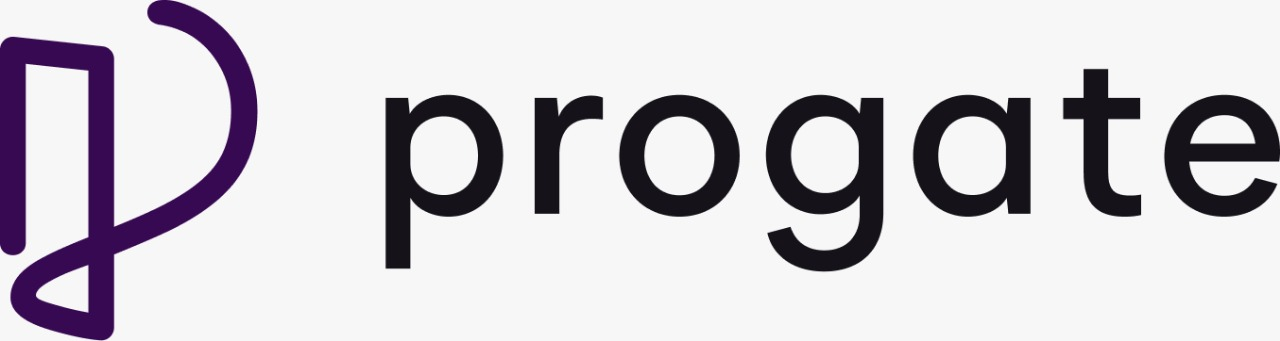
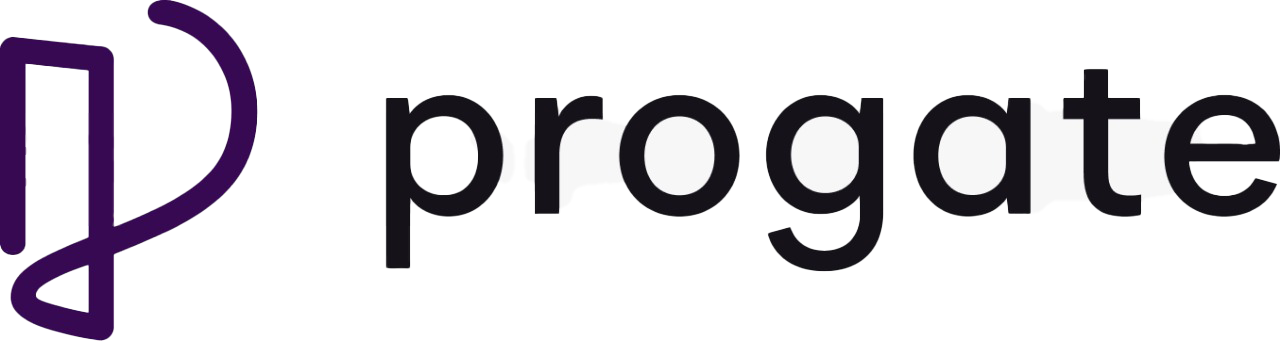
Add Progate

diff --git a/_layouts/default.html b/_layouts/default.html
@@ -439,7 +439,7 @@
                         <a href="https://www.gitkraken.com/"><img class="logo" src="./assets/img/thanks_to/gitkraken.png" alt="GitKraken"/></a>
                         <a href="https://scaler.com/"><img class="logo" src="./assets/img/thanks_to/unnamed.png" alt="Scaler Academy By InterviewBit"/></a>
                         <a href="https://mlh.io/"><img class="logo" src="./assets/img/thanks_to/mlh-logo-white.svg" alt="Major League Hacking"/></a>
-                        <a href="http://bit.ly/progateaccessforhackon "><img class="logo" src="./assets/img/thanks_to/prograte.svg" alt="Major League Hacking"/></a>
+                        <a href="http://bit.ly/progateaccessforhackon "><img class="logo" src="./assets/img/thanks_to/progate.png" alt="Progate"/></a>
 
                     </div>
 
